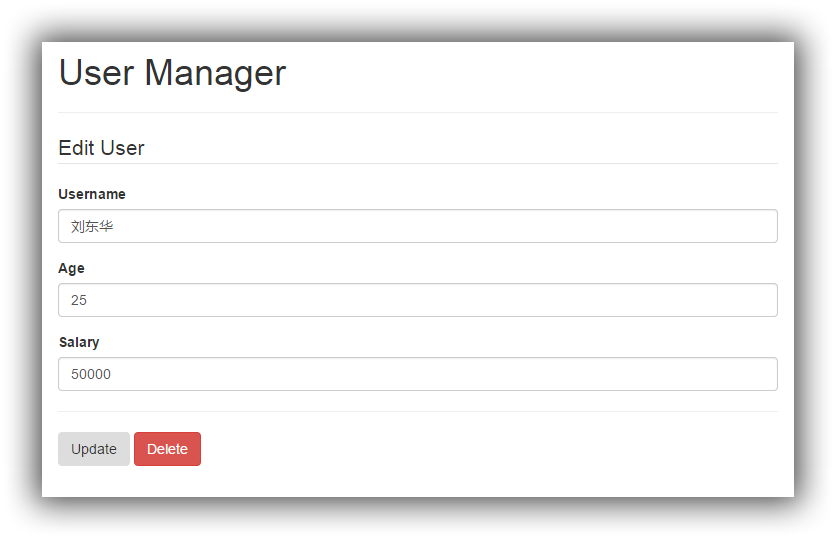
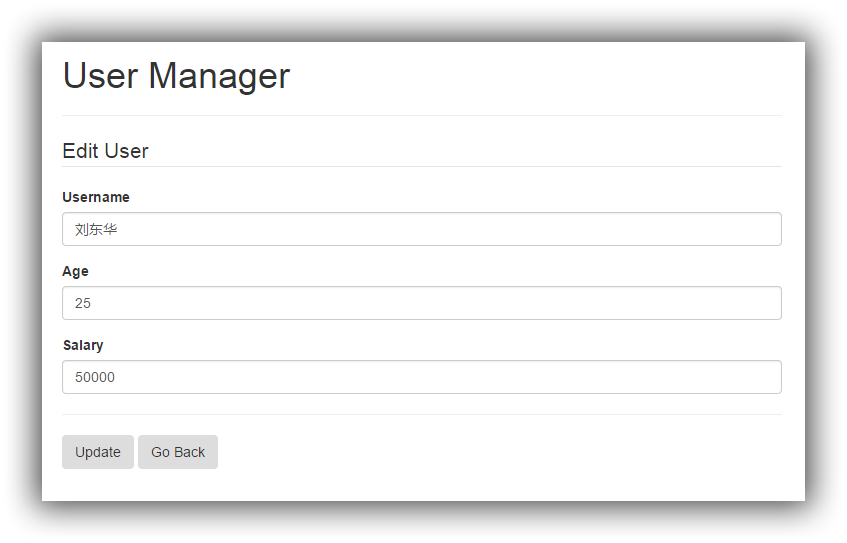
rewrite front-end delete logical

diff --git a/src/main/webapp/index.html b/src/main/webapp/index.html
@@ -37,8 +37,9 @@
         <script src="bower_components/underscore/underscore.js" type="text/javascript"></script>
         <script src="bower_components/backbone/backbone.js"></script>
         <script type="text/template" id="user-list-template">
-            <button id="statistics_button" type="button" class="btn btn-primary" data-toggle="modal">Show statistics</button>
-            <a href="#/new" class="btn btn-primary" id="new-user">New</a>
+            <button id="show_statistics" type="button" class="btn btn-primary" data-toggle="modal">Show statistics</button>
+            &nbsp;
+            <button id="create_user" type="button" class="btn btn-primary" data-toggle="modal">Create User</button>
             <hr />
             <table class="table striped">
               <thead>
@@ -52,7 +53,7 @@
                     <td><%= htmlEncode(user.get('username')) %></td>
                     <td><%= htmlEncode(user.get('age')) %></td>
                     <td><%= htmlEncode(user.get('salary')) %></td>
-                    <td><a class="btn btn-default edit-user" href="#/edit/<%= user.id %>">Edit</a></td>
+                    <td><a class="btn btn-default edit-user" href="#/edit/<%= user.id %>">Edit</a>&nbsp;<button data-user-id="<%= user.id %>" class="btn btn-danger delete">Delete</button></td>
                   </tr>
                 <% }); %>
               </tbody>
@@ -63,21 +64,21 @@
               <legend><%= user ? 'Edit' : 'New' %> User</legend>
             <div class="form-group">
                 <label>Username</label>
-                <input name="username" class="form-control" type="text" value="<%= user ? user.get('username') : '' %>">
+                <input name="username" type="text" required placeholder="Enter username, can only contain numbers or letters, minimum length of 5" pattern="[0-9A-Za-z]{5,}" class="form-control" type="text" value="<%= user ? user.get('username') : '' %>">
             </div>
             <div class="form-group">
                 <label>Age</label>
-                <input name="age" class="form-control" type="text" value="<%= user ? user.get('age') : '' %>">
+                <input name="age" type="number" required placeholder="Enter age, between 1 and 150" min="1" max="150" class="form-control" type="text" value="<%= user ? user.get('age') : '' %>">
             </div>
             <div class="form-group">
                 <label>Salary</label>
-                <input name="salary" class="form-control" type="text" value="<%= user ? user.get('salary') : '' %>">
+                <input name="salary" type="number" required placeholder="Enter salary" min="0" step="any" class="form-control" type="text" value="<%= user ? user.get('salary') : '' %>">
             </div>
                 <hr />
                <button type="submit" class="btn"><%= user ? 'Update' : 'Create' %></button>
+               <button class="btn back">Go Back</button>
                <% if(user) { %>
                 <input type="hidden" name="id" value="<%= user.id %>" />
-               <button data-user-id="<%= user.id %>" class="btn btn-danger delete">Delete</button>
                <% }; %>
             </form>
         </script>

diff --git a/src/main/webapp/js/view/app-view.js b/src/main/webapp/js/view/app-view.js
@@ -6,7 +6,9 @@ var app = app || {};
 		el : '.page',
 		template : _.template($('#user-list-template').html()),
         events : {
-            'click #statistics_button' : 'showStatistics'
+            'click #show_statistics' : 'showStatistics',
+            'click #create_user' : 'createUser',
+            'click .delete' : 'deleteUser'
         },
 		render : function() {
 			var that = this;
@@ -21,7 +23,24 @@ var app = app || {};
 		},
 		showStatistics : function() {
 		    new app.StatisticsView().render();
-		}
+		},
+        createUser : function() {
+          app.router.navigate('create', {
+              trigger : true
+          });
+        },
+        deleteUser : function(ev) {
+            var that = this;
+            // find the model
+            var user = app.users.filterWithIds([parseInt($(ev.target).attr('data-user-id'))])._wrapped[0];
+            user.destroy({
+                success : function() {
+                    // re-render UserListView
+                    that.render();
+                }
+            });
+            
+        }
 	});
     app.userListView = new app.UserListView();
 })(jQuery);

diff --git a/src/main/webapp/js/view/user-view.js b/src/main/webapp/js/view/user-view.js
@@ -7,24 +7,31 @@ var app = app || {};
 		template : _.template($('#edit-user-template').html()),
 		events : {
 			'submit .edit-user-form' : 'saveUser',
-			'click .delete' : 'deleteUser'
+			'click button.back' : 'back'
 		},
 		saveUser : function(ev) {
 			var userDetails = $(ev.currentTarget).serializeObject();
 			var user = new app.User();
 			user.save(userDetails, {
 				success : function(user) {
-					router.navigate('', {
+					app.router.navigate('', {
 						trigger : true
 					});
 				}
 			});
 			return false;
 		},
+        back : function(ev) {
+            // history.go(-1)
+            app.router.navigate('', {
+                trigger : true
+            });
+            return true;
+        },
 		deleteUser : function(ev) {
 			this.user.destroy({
 				success : function() {
-					router.navigate('', {
+					app.router.navigate('', {
 						trigger : true
 					});
 				}

diff --git a/src/main/webapp/js/router/router.js b/src/main/webapp/js/router/router.js
@@ -6,23 +6,23 @@ var app = app || {};
 		routes : {
 			"" : "home",
 			"edit/:id" : "edit",
-			"new" : "edit",
-			"statistics" : "statistics"
+			"create" : "edit",
+//			"statistics" : "statistics"
 		}
 	});
 
-	router = new Router;
-	router.on('route:home', function() {
+	app.router = new Router;
+	app.router.on('route:home', function() {
 		// render user list
 		app.userListView.render();
 	})
-	router.on('route:edit', function(id) {
+	app.router.on('route:edit', function(id) {
 		app.userEditView.render({
 			id : id
 		});
 	})
-	router.on('route:statistics', function(id) {
-		app.userStaisticsView.render();
-	})
+//	app.router.on('route:statistics', function(id) {
+//		app.userStaisticsView.render();
+//	})
 	Backbone.history.start();
 })();

diff --git a/src/main/webapp/js/collection/users.js b/src/main/webapp/js/collection/users.js
@@ -3,6 +3,9 @@ var app = app || {};
 
 (function() {
 	app.Users = Backbone.Collection.extend({
-		url : '/users'
+		url : '/users',
+		filterWithIds: function(ids) {
+		    return _(this.models.filter(function(c) { return _.contains(ids, c.id); }));
+		}
 	});
 })();
